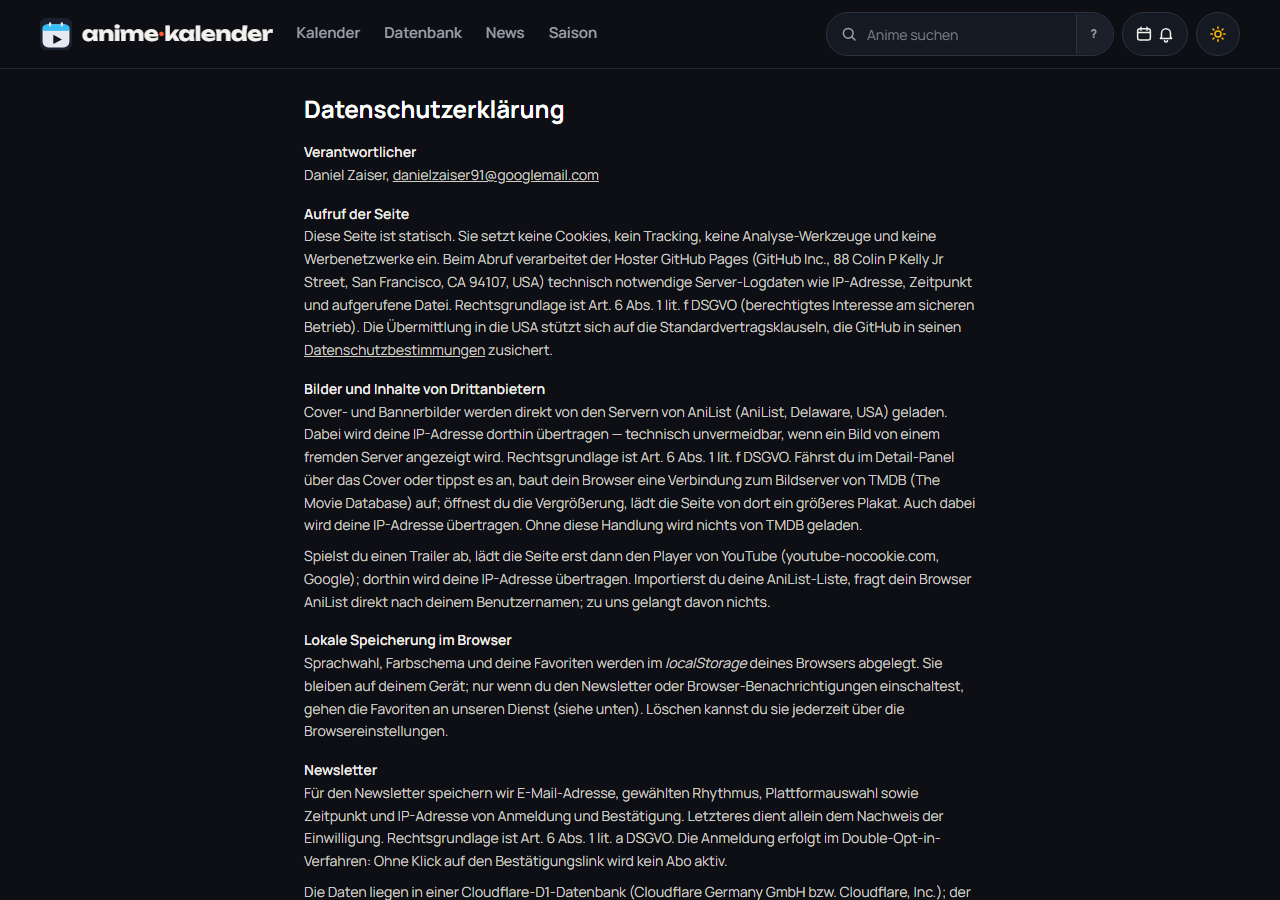
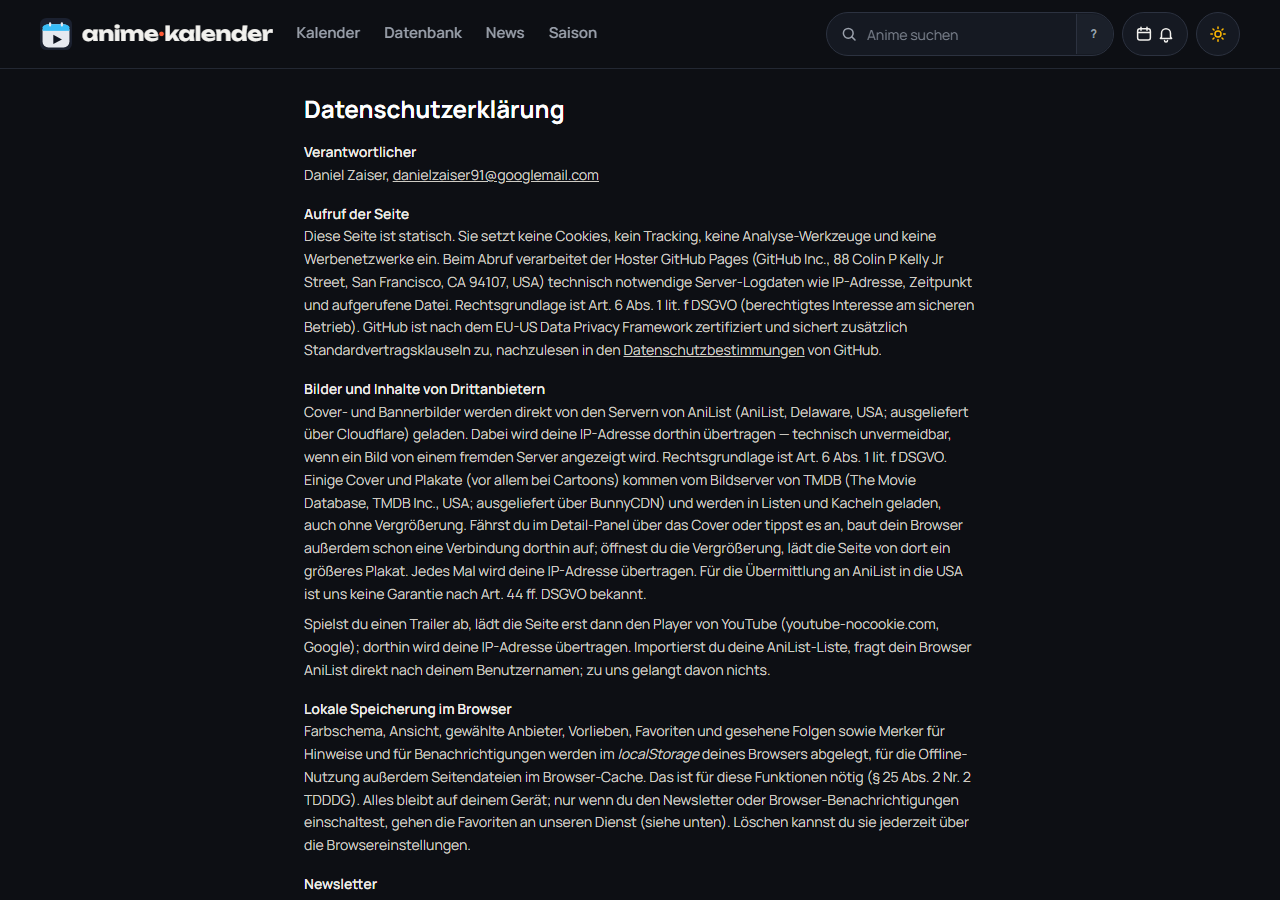
Datenschutz: zuständige Aufsichtsbehörde (LfDI RLP) mit Anschrift und Webadresse

Changed region(s): [[0.2188, 0.4356, 0.75, 1.0], [0.2188, 0.3422, 0.75, 0.4044]]

diff --git a/web/src/components/Datenschutz.tsx b/web/src/components/Datenschutz.tsx
@@ -143,8 +143,13 @@ function DienstAbschnitte() {
           dich dafür an die oben genannte E-Mail-Adresse.
         </p>
         <p className="mt-2">
-          Außerdem steht dir ein Beschwerderecht bei einer Aufsichtsbehörde zu, etwa dem Landesbeauftragten
-          für den Datenschutz und die Informationsfreiheit Rheinland-Pfalz.
+          Außerdem steht dir ein Beschwerderecht bei einer Aufsichtsbehörde zu, insbesondere bei der für
+          mich zuständigen: dem Landesbeauftragten für den Datenschutz und die Informationsfreiheit
+          Rheinland-Pfalz (LfDI RLP), Hintere Bleiche 34, 55116 Mainz,{' '}
+          <a className="underline" href="https://www.datenschutz.rlp.de/">
+            datenschutz.rlp.de
+          </a>
+          .
         </p>
       </Abschnitt>
     </>
